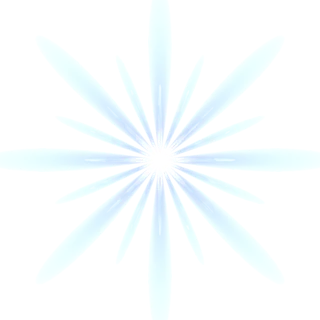
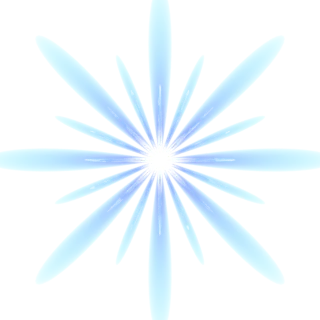
TCG: 推しの攻撃スキンを上げた(動く斬撃・濃い色・倒したときの決め・推しごとの音)

Changed region(s): [[0.0, 0.0, 1.0, 1.0]]

diff --git a/preview/tcg_play.html b/preview/tcg_play.html
@@ -5295,7 +5295,7 @@ function ofxTick(){const now=ofxNow();OFX.raf=0;const cx=ofxCanvas(),d=OFX.dpr;c
     if(p.gl){cx.globalCompositeOperation='lighter';cx.fillStyle='#fff';cx.shadowColor=p.col;cx.shadowBlur=10;const s=q.s;cx.beginPath();cx.moveTo(q.x,q.y-s);cx.quadraticCurveTo(q.x,q.y,q.x+s,q.y);cx.quadraticCurveTo(q.x,q.y,q.x,q.y+s);cx.quadraticCurveTo(q.x,q.y,q.x-s,q.y);cx.quadraticCurveTo(q.x,q.y,q.x,q.y-s);cx.fill();cx.shadowBlur=0;cx.globalCompositeOperation='source-over';return true}
     if(p.tint){cx.globalCompositeOperation='lighter';cx.fillStyle=p.col;cx.fillRect(0,0,innerWidth,innerHeight);cx.globalCompositeOperation='source-over';return true}
     if(p.pil){cx.globalCompositeOperation='lighter';const g2=cx.createLinearGradient(q.x-q.w/2,0,q.x+q.w/2,0);g2.addColorStop(0,'rgba(0,0,0,0)');g2.addColorStop(.35,p.col);g2.addColorStop(.5,'#ffffff');g2.addColorStop(.65,p.col);g2.addColorStop(1,'rgba(0,0,0,0)');cx.fillStyle=g2;const g3=cx.createLinearGradient(0,q.y-q.h,0,q.y);cx.fillRect(q.x-q.w/2,q.y-q.h,q.w,q.h);cx.globalCompositeOperation='source-over';return true}
-    if(p.pic){const im=p.pic;if(!im.complete||!im.naturalWidth)return true;cx.globalCompositeOperation='lighter';cx.save();cx.translate(q.x,q.y);cx.rotate(q.r||0);cx.scale(q.sx||1,q.sy||1);cx.drawImage(im,-q.w/2,-q.h/2,q.w,q.h);cx.restore();cx.globalCompositeOperation='source-over';return true}
+    if(p.pic){const im=p.pic;if(!im.complete||!im.naturalWidth)return true;cx.globalCompositeOperation='lighter';cx.save();cx.translate(q.x,q.y);cx.rotate(q.r||0);cx.scale(q.sx||1,q.sy||1);if(p.fr){const fw=im.naturalWidth/p.fr,fi=Math.min(p.fr-1,Math.floor(u*p.fr));cx.drawImage(im,fi*fw,0,fw,im.naturalHeight,-q.w/2,-q.h/2,q.w,q.h)}else cx.drawImage(im,-q.w/2,-q.h/2,q.w,q.h);cx.restore();cx.globalCompositeOperation='source-over';return true}
     if(p.streak&&u>.04){const q0=p.f(Math.max(0,u-.07));cx.globalCompositeOperation='lighter';cx.strokeStyle=p.glow||'#fff';cx.lineCap='round';cx.lineWidth=Math.max(2,q.s*.22);cx.beginPath();cx.moveTo(q0.x,q0.y);cx.lineTo(q.x,q.y);cx.stroke();cx.globalCompositeOperation='source-over';cx.globalAlpha=Math.min(1,q.a)*(p.dim||1)}
     const im=ofxImg(p.k);if(!im.complete||!im.naturalWidth)return true;const fi=Math.floor(((u*p.spin+p.f0)%1+1)%1*12),s=q.s;
     cx.globalAlpha=Math.min(1,q.a)*(p.dim||1);if(p.glow){cx.shadowColor=p.glow;cx.shadowBlur=Math.max(6,s*.32)}
@@ -5316,14 +5316,13 @@ function ofxHit(tEl,K){const T=ofxRect(tEl);if(!T)return;const col=K.c[0]||'#ff8
     f:u=>{const e=ofxE.o5(u);return{x:T.x+Math.cos(a)*d*e,y:T.y+Math.sin(a)*d*.75*e+u*u*40,s:sz*(1.15-.4*u),a:(1-Math.pow(u,2)),r:a+u*3}}})}
   ofxGl(T,col,6);ofxAdd({ring:1,col,dur:420,f:u=>({x:T.x,y:T.y,s:12+ofxE.o5(u)*T.w*.5,a:(1-u),lw:3*(1-u)+1,fl:.8})})}
 /* 倒す: a big burst where the beaten one stood, in the winner's 推し */
-function ofxKo(el,K){const T=ofxRect(el);if(!T)return;const col=K.c[0]||'#ff8fd0',n=OFX_RM?8:28,bu=ovxImg('burst_'+(OVX_T[K.n]||'hood'));
+function ofxKo(el,K){const T=ofxRect(el);if(!T)return;ofxSnd(K,'ko');const col=K.c[0]||'#ff8fd0',n=OFX_RM?8:28,bu=ovxImg('burst_'+(OVX_T[K.n]||'hood'));
   ofxAdd({tint:1,col:col+'44',dur:260,f:u=>({x:0,y:0,a:1-u})});
   ofxAdd({pil:1,col,dur:760,f:u=>({x:T.x,y:T.y+T.h*.55,w:T.w*(.7+.9*ofxE.o3(Math.min(1,u*2)))*(1-u*.5),h:T.h*(1.5+4*ofxE.o3(u)),a:Math.sin(Math.min(1,u*1.3)*Math.PI)*.9})});
   ofxAdd({pic:bu,dur:620,f:u=>{const e=ofxE.o5(u),z=3*Math.max(70,T.w);return{x:T.x,y:T.y,r:-u*.6,w:z*(.2+.9*e),h:z*(.2+.9*e),a:(1-u)*1.3}}});
   ofxAdd({pic:bu,dur:700,dl:140,f:u=>{const e=ofxE.o5(u),z=2.2*Math.max(70,T.w);return{x:T.x,y:T.y,r:u*.8,w:z*(.2+.9*e),h:z*(.2+.9*e),a:(1-u)*1.1}}});
   ofxAdd({ring:1,col,dur:620,f:u=>({x:T.x,y:T.y+T.h*.25,s:14+ofxE.o5(u)*T.w*.62,a:(1-u),lw:4*(1-u)+1,fl:.6})});
-  for(let i=0;i<n;i++){const a=-Math.PI/2+ofxRnd(-1.2,1.2),v=ofxRnd(1.6,2.8)*Math.max(50,T.w),sz=ofxRnd(34,54),g0=v*2.4;ofxAdd({k:ofxPick(K,i),dur:1200,dl:i*6,spin:ofxRnd(1.2,2.4),f0:Math.random(),glow:col,streak:1,
-    f:u=>{const t=u*1.15,x=T.x+Math.cos(a)*v*t*.55,y=T.y+Math.sin(a)*v*t+.5*g0*t*t;return{x,y,s:sz*(u<.1?u*10:1),a:1-Math.pow(u,2.4),r:t*3*(i%2?1:-1)}}})}
+  ofxFin(OVX_T[K.n]||'hood',T,K,col);
   for(let i=0;i<(OFX_RM?4:10);i++){const x=T.x+ofxRnd(-T.w*.6,T.w*.6),y=T.y+ofxRnd(-T.h*.7,T.h*.3),s=ofxRnd(5,10);ofxAdd({gl:1,col,dur:520,dl:ofxRnd(60,520),f:u=>({x,y,s:s*Math.sin(u*Math.PI),a:1})})}}
 /* 倒される: her pieces drift down softly onto the one who fell */
 function ofxDown(el,K){const T=ofxRect(el);if(!T)return;const n=OFX_RM?4:9;
@@ -5333,17 +5332,18 @@ function ofxDown(el,K){const T=ofxRect(el);if(!T)return;const n=OFX_RM?4:9;
 /* (10/29) 推しの攻撃スキン: 攻撃するキャラの持ち主に応援演出があると、斬撃・当たった光・飛び散るものが、その推しの色と形になる(Blender の ovx_slash_* / ovx_burst_* と ofx_*) */
 const OVX_T={'夜宴の小悪魔':'imp','堕ちた天使':'angel','オーバーサイズ':'hood','ふくれっつら':'chibi','ためいき':'sigh','ひだまりニット':'knit','はなかんむり':'crown'};
 const OVX_IMG={};function ovxImg(n){let im=OVX_IMG[n];if(!im){im=new Image();im.src='tcgk/ovx_'+n+'.webp';OVX_IMG[n]=im}return im}
-function ofxTheme(m){try{if(!m||FAST||WATCH)return null;const K=OSK.K[m.owner];if(!K)return null;const t=OVX_T[K.n]||'hood';ovxImg('slash_'+t);ovxImg('burst_'+t);ofxKinds(K).forEach(ofxImg);return Object.assign({t},K)}catch(e){return null}}
+function ofxTheme(m){try{if(!m||FAST||WATCH)return null;const K=OSK.K[m.owner];if(!K)return null;const t=OVX_T[K.n]||'hood';ovxImg('sweep_'+t);ovxImg('burst_'+t);ofxKinds(K).forEach(ofxImg);return Object.assign({t},K)}catch(e){return null}}
 /* the charge: her pieces circle up around the attacker */
-function ofxCharge(K,st){const A=ofxRect(st);if(!A)return;const col=K.c[0]||'#ff8fd0',n=OFX_RM?6:14,R=Math.max(30,A.w*.75);
+function ofxSnd(K,ph){try{TSFX.play('o_'+(K.t||OVX_T[K.n]||'hood')+'_'+ph)}catch(e){}}
+function ofxCharge(K,st){const A=ofxRect(st);if(!A)return;ofxSnd(K,'charge');const col=K.c[0]||'#ff8fd0',n=OFX_RM?6:14,R=Math.max(30,A.w*.75);
   ofxAdd({pil:1,col,dur:420,f:u=>({x:A.x,y:A.y+A.h*.5,w:A.w*(.5+.7*Math.sin(Math.min(1,u*1.4)*Math.PI/2))*(1-u*.4),h:A.h*(1.2+2.2*ofxE.o3(u)),a:Math.sin(u*Math.PI)*.75})});
   for(let i=0;i<n;i++){const a0=i/n*Math.PI*2,sz=ofxRnd(32,46),r0=R*ofxRnd(1.5,2.1);ofxAdd({k:ofxPick(K,i),dur:520,dl:i*10,spin:ofxRnd(1,2),f0:Math.random(),glow:col,streak:1,
     f:u=>{const a=a0+u*Math.PI*1.8,e=ofxE.io(u),r=r0*(1-e)+R*.35*e;return{x:A.x+Math.cos(a)*r,y:A.y+A.h*.1-ofxE.o3(u)*A.h*.6+Math.sin(a)*r*.4,s:sz*(1-.35*u),a:Math.min(1,u*7)*(1-Math.pow(u,3)),r:a}}})}
   ofxGl(A,col,6)}
 /* the hit: her two slashes cross, her flash, her pieces burst out, a ring in her colour */
-function ofxStrike(K,ax,ay,tx,ty,rt,heavy){const col=K.c[0]||'#ff8fd0',c2=K.c[1]||'#ffffff',RW=rt.width||70,W=Math.max(200,RW*3.4),sl=ovxImg('slash_'+K.t),bu=ovxImg('burst_'+K.t),dir=tx>=ax?1:-1;
+function ofxStrike(K,ax,ay,tx,ty,rt,heavy){ofxSnd(K,'hit');const col=K.c[0]||'#ff8fd0',c2=K.c[1]||'#ffffff',RW=rt.width||70,W=Math.max(200,RW*3.4),sl=ovxImg('sweep_'+K.t),bu=ovxImg('burst_'+K.t),dir=tx>=ax?1:-1;
   ofxAdd({tint:1,col:col+'55',dur:200,f:u=>({x:0,y:0,a:1-u})});
-  [[-32,0,1],[26,50,1],[dir*-4,105,1.25]].forEach(([r,dl,k])=>ofxAdd({pic:sl,dur:400,dl,f:u=>{const e=ofxE.o5(Math.min(1,u*1.9));return{x:tx,y:ty,r:(r+dir*(1-e)*-46)*Math.PI/180,w:W*k,h:W*k/2,sx:.3+.95*e,sy:1.05-.4*u,a:u<.5?1:1-(u-.5)/.5}}}));
+  [[-32,0,1],[26,50,1],[dir*-4,105,1.25]].forEach(([r,dl,k],i)=>ofxAdd({pic:sl,fr:10,dur:420,dl,f:u=>{const e=ofxE.o5(Math.min(1,u*1.6));return{x:tx,y:ty,r:(r+dir*(1-e)*-24)*Math.PI/180,w:W*k,h:W*k/2,sx:(i%2?-1:1)*dir*(.85+.25*e),sy:1,a:1}}}));
   ofxAdd({pic:bu,dur:520,dl:20,f:u=>{const e=ofxE.o5(u),z=(heavy?2.6:2.1)*Math.max(70,RW);return{x:tx,y:ty,r:u*.6,w:z*(.2+.95*e),h:z*(.2+.95*e),a:(1-u)*1.25}}});
   ofxAdd({pic:bu,dur:300,dl:0,f:u=>{const z=1.1*Math.max(70,RW);return{x:tx,y:ty,r:-u,w:z*(.4+.6*u),h:z*(.4+.6*u),a:(1-u)*1.4}}});
   [[col,0,.85],['#ffffff',60,.6],[c2,120,1.05]].forEach(([c,dl,k])=>ofxAdd({ring:1,col:c,dur:480,dl,f:u=>({x:tx,y:ty,s:10+ofxE.o5(u)*RW*k,a:(1-u),lw:5*(1-u)+1,fl:.75})}));
@@ -5351,6 +5351,28 @@ function ofxStrike(K,ax,ay,tx,ty,rt,heavy){const col=K.c[0]||'#ff8fd0',c2=K.c[1]
   for(let i=0;i<n;i++){const a=i/n*Math.PI*2+ofxRnd(-.25,.25),d=ofxRnd(.7,1.35)*Math.max(56,T.w),sz=ofxRnd(30,48);ofxAdd({k:ofxPick(K,i),dur:820,dl:15,spin:ofxRnd(1,2.2),f0:Math.random(),glow:col,streak:1,
     f:u=>{const e=ofxE.o5(u);return{x:T.x+Math.cos(a)*d*e,y:T.y+Math.sin(a)*d*.8*e+u*u*44,s:sz*(1.15-.45*u),a:1-Math.pow(u,2),r:a+u*3}}})}
   ofxGl(T,col,heavy?12:9)}
+
+/* (10/29) 倒したときの決め: 推しごとに違う動き */
+function ofxFin(t,T,K,col){const W=Math.max(56,T.w),Hh=Math.max(70,T.h),R=OFX_RM?.5:1,P=(o)=>ofxAdd(Object.assign({spin:1,f0:Math.random(),glow:col},o));
+  if(t==='imp'){/* コウモリの渦: 回りながら広がって上へ抜けていく */const n=Math.round(22*R);for(let i=0;i<n;i++){const a0=i/n*Math.PI*2,sz=ofxRnd(34,50),sp=ofxRnd(3.2,4.4),dl=i*14;
+      P({k:'bat',dur:1250,dl,spin:ofxRnd(5,7),streak:1,f:u=>{const e=ofxE.o3(u),a=a0+u*sp,r=W*(.25+1.35*e);return{x:T.x+Math.cos(a)*r,y:T.y-u*Hh*1.1+Math.sin(a)*r*.45,s:sz*(.6+.6*Math.min(1,u*4)),a:Math.min(1,u*6)*(1-Math.pow(u,3)),r:0}}})}
+    for(let i=0;i<Math.round(8*R);i++){const a=ofxRnd(0,6.3),d=ofxRnd(.4,1.1)*W;P({k:'star',dur:900,dl:200+i*40,spin:1.5,f:u=>({x:T.x+Math.cos(a)*d*ofxE.o5(u),y:T.y-Hh*.3+Math.sin(a)*d*.6*ofxE.o5(u),s:30*(1-u*.4),a:1-u*u,r:u*4})})}}
+  else if(t==='angel'){/* 赤い光の輪が頭の上に出て、羽根が上から舞い落ちる */
+    [[col,0,1],['#ffffff',80,.82],[col,160,.64]].forEach(([c,dl,k])=>ofxAdd({ring:1,col:c,dur:1300,dl,fl:.32,f:u=>({x:T.x,y:T.y-Hh*.62-Math.sin(Math.min(1,u*2)*Math.PI/2)*8,s:W*.62*k*(.6+.4*ofxE.o5(Math.min(1,u*3))),a:Math.min(1,u*6)*(1-Math.pow(u,2)),lw:4})}));
+    const n=Math.round(18*R);for(let i=0;i<n;i++){const x0=T.x+ofxRnd(-1.3,1.3)*W,sw=ofxRnd(14,30),ph=ofxRnd(0,6),sz=ofxRnd(34,48);P({k:'feather',dur:1500,dl:120+i*30,spin:ofxRnd(.5,1),f:u=>({x:x0+Math.sin(ph+u*5)*sw,y:T.y-Hh*1.5+u*Hh*1.9,s:sz,a:Math.min(1,u*5)*(1-Math.pow(u,2)),r:Math.sin(ph+u*4)*.7})})}}
+  else if(t==='hood'){/* 泡の柱: ふくらみながら上がって、ぱちんと割れる */const n=Math.round(20*R);for(let i=0;i<n;i++){const x0=T.x+ofxRnd(-.6,.6)*W,ph=ofxRnd(0,6),s0=ofxRnd(20,30),s1=s0*ofxRnd(1.6,2.2),dl=i*35,du=ofxRnd(800,1100),top=ofxRnd(1.1,1.8);
+      const q=u=>({x:x0+Math.sin(ph+u*7)*10,y:T.y+Hh*.4-ofxE.o3(u)*Hh*top,s:s0+(s1-s0)*u,a:Math.min(1,u*6)*(u>.92?(1-u)/.08:1),r:0});P({k:'bubble',dur:du,dl,spin:.4,f:q});
+      const e=q(1);ofxAdd({gl:1,col,dur:260,dl:dl+du-30,f:u=>({x:e.x,y:e.y,s:16*Math.sin(u*Math.PI),a:1})});ofxAdd({ring:1,col:'#ffffff',dur:240,dl:dl+du-30,fl:1,f:u=>({x:e.x,y:e.y,s:s1*.4*(1+u),a:1-u,lw:2})})}
+    for(let i=0;i<Math.round(6*R);i++){const a=ofxRnd(0,6.3),d=ofxRnd(.3,1)*W;P({k:'star',dur:800,dl:100+i*60,spin:1.5,f:u=>({x:T.x+Math.cos(a)*d*ofxE.o5(u),y:T.y+Math.sin(a)*d*.6*ofxE.o5(u),s:28,a:1-u*u,r:u*4})})}}
+  else if(t==='chibi'){/* ハートの輪が広がって回る、まん中で大きなハートが2回どきんと */const n=Math.round(14*R);for(let i=0;i<n;i++){const a0=i/n*Math.PI*2;P({k:'heart',dur:1150,dl:60,spin:.6,f:u=>{const e=ofxE.o5(u),a=a0+u*1.6,r=W*(.2+1.15*e);return{x:T.x+Math.cos(a)*r,y:T.y+Math.sin(a)*r*.62,s:36*(1-u*.3),a:Math.min(1,u*8)*(1-Math.pow(u,2.5)),r:0}}})}
+    [0,280].forEach(dl=>P({k:'heart',dur:520,dl,spin:0,f0:0,f:u=>{const k=Math.sin(Math.min(1,u*1.6)*Math.PI/2);return{x:T.x,y:T.y-Hh*.1,s:W*(0.5+0.9*k),a:(1-u)*1.1,r:0}}}));
+    for(let i=0;i<Math.round(6*R);i++){const a=ofxRnd(0,6.3),d=ofxRnd(.5,1.1)*W;P({k:'star',dur:800,dl:150+i*50,spin:1.5,f:u=>({x:T.x+Math.cos(a)*d*ofxE.o5(u),y:T.y+Math.sin(a)*d*.6*ofxE.o5(u),s:26,a:1-u*u,r:u*4})})}}
+  else if(t==='sigh'||t==='crown'){/* 花びら(と葉)の渦: 足元から巻き上がる。はなかんむりは最初に花の輪になってから */const n=Math.round(28*R);for(let i=0;i<n;i++){const a0=i/n*Math.PI*2,k=t==='crown'&&i%3===2?'leaf':'petal',sz=ofxRnd(30,44),ring=t==='crown';
+      P({k,dur:1400,dl:i*12,spin:ofxRnd(.8,1.6),f:u=>{let a,r,y;if(ring&&u<.35){const v=u/.35;a=a0+v*1.2;r=W*.85*ofxE.o5(v);y=T.y+Math.sin(a)*r*.5}else{const v=ring?(u-.35)/.65:u;a=a0+(ring?1.2:0)+v*5.5;r=W*((ring?.85:.3)+.6*v);y=T.y+(ring?0:Hh*.45)-ofxE.io(v)*Hh*1.5+Math.sin(a)*r*.4}return{x:T.x+Math.cos(a)*r,y,s:sz,a:Math.min(1,u*8)*(1-Math.pow(u,3)),r:a}}})}}
+  else if(t==='knit'){/* 雪の星: 6方向に結晶が走って、きらきらしながら降る */for(let j=0;j<6;j++)for(let k=0;k<3;k++){if(R<1&&k)continue;const a=j/6*Math.PI*2-Math.PI/2,d=W*(.5+.45*k),dl=k*70;
+      P({k:k===1?'star':'snow',dur:1300,dl,spin:.8,f:u=>{const e=ofxE.o5(Math.min(1,u*2));return{x:T.x+Math.cos(a)*d*e,y:T.y+Math.sin(a)*d*.7*e+Math.max(0,u-.5)*Hh*.8,s:(k===1?30:40)*(1-u*.3),a:Math.min(1,u*8)*(1-Math.pow(u,2)),r:u*2}}})}
+    for(let i=0;i<Math.round(14*R);i++){const x=T.x+ofxRnd(-1.2,1.2)*W,y=T.y+ofxRnd(-1,.6)*Hh,s=ofxRnd(6,12);ofxAdd({gl:1,col:'#dff0ff',dur:420,dl:ofxRnd(200,1100),f:u=>({x,y,s:s*Math.sin(u*Math.PI),a:1})})}}
+}
 /* when: the attack (strike) and the fall (the 'die' event) */
 function ofxOn(){return !FAST&&!WATCH}
 {const _t=tsfxEv;tsfxEv=function(e){try{if(e&&e.t==='die'&&ofxOn()){const u=uidEl(e.uid);if(u){const Kw=OSK.K[1-e.who],Kl=OSK.K[e.who];if(Kw)ofxKo(u,Kw);if(Kl)setTimeout(()=>{try{ofxDown(u,Kl)}catch(_){}},D(260))}}}catch(_){}return _t.apply(this,arguments)}}
@@ -5401,7 +5423,29 @@ const TSFX=(()=>{let ac=null,master=null,nb=null;const last={};
     turnOpp(){tone(392,392,.12,'triangle',.07);tone(330,330,.22,'triangle',.07,.1)},
     win(){[523,659,784,1046].forEach((f,i)=>tone(f,f,.5,'triangle',.1,i*.11));glit(2093,5,.05,.46)},
     lose(){[392,349,311,262].forEach((f,i)=>tone(f,f*.98,.5,'triangle',.08,i*.16))},
-    draw0(){tone(440,440,.3,'triangle',.07);tone(440,330,.4,'triangle',.06,.2)}};
+    draw0(){tone(440,440,.3,'triangle',.07);tone(440,330,.4,'triangle',.06,.2)},
+    /* (10/29) 推しの攻撃スキンの音: o_<推し>_charge / hit / ko */
+    o_imp_charge(){tone(260,120,.45,'sine',.12);[0,.09,.17].forEach((d,i)=>tone(3400-i*300,2500,.05,'square',.025,d+.1))},
+    o_imp_hit(){tone(700,110,.28,'sawtooth',.07);noise(.18,3000,900,1.5,.1)},
+    o_imp_ko(){[523,622,784,1046].forEach((f,i)=>tone(f,f*.99,.55,'triangle',.06,i*.07));for(let i=0;i<6;i++)noise(.07,900,500,2,.06,.1+i*.08)},
+    o_angel_charge(){noise(.45,400,2600,1.6,.08);tone(330,330,.5,'sine',.06);tone(495,495,.5,'sine',.04,.05)},
+    o_angel_hit(){tone(1318,1318,.4,'sine',.06);tone(1976,1976,.35,'sine',.045,.03);noise(.14,4000,1500,1.4,.08)},
+    o_angel_ko(){[1568,1318,1046,880,784].forEach((f,i)=>tone(f,f,.5,'triangle',.06,i*.07));for(let i=0;i<4;i++)noise(.12,700,350,1.2,.06,.15+i*.14)},
+    o_hood_charge(){[0,.06,.12,.18].forEach((d,i)=>tone(380+i*120,700+i*180,.07,'sine',.08,d))},
+    o_hood_hit(){tone(520,1100,.08,'sine',.12);tone(1650,1650,.05,'sine',.05,.03);noise(.06,3000,2000,2,.05)},
+    o_hood_ko(){for(let i=0;i<9;i++){const f=500+Math.random()*700;tone(f,f*1.9,.07,'sine',.08,.1+i*.09+Math.random()*.03)}},
+    o_chibi_charge(){tone(600,1500,.22,'sine',.08);glit(1760,3,.035,.1)},
+    o_chibi_hit(){tone(300,620,.16,'sine',.12);glit(2093,4,.04,.04)},
+    o_chibi_ko(){tone(82,60,.16,'sine',.35);tone(82,60,.16,'sine',.3,.22);glit(1568,6,.045,.35)},
+    o_sigh_charge(){noise(.5,300,900,.8,.07,0,'lowpass');glit(1760,2,.025,.2)},
+    o_sigh_hit(){glit(2093,4,.045);noise(.2,2000,4000,2,.05)},
+    o_sigh_ko(){noise(.8,300,2400,1,.08);[784,988,1175,1568].forEach((f,i)=>tone(f,f,.45,'sine',.055,.15+i*.08))},
+    o_crown_charge(){noise(.5,300,900,.8,.07,0,'lowpass');tone(523,659,.3,'triangle',.04,.1)},
+    o_crown_hit(){glit(1760,4,.045);tone(659,659,.25,'triangle',.05)},
+    o_crown_ko(){noise(.8,300,2400,1,.07);[659,784,988,1318].forEach((f,i)=>tone(f,f,.45,'triangle',.055,.15+i*.08))},
+    o_knit_charge(){glit(2637,3,.03);noise(.3,6000,8000,3,.03)},
+    o_knit_hit(){tone(3520,3500,.12,'sine',.07);tone(4699,4690,.1,'sine',.04,.02);noise(.1,7000,5000,2,.06)},
+    o_knit_ko(){for(let i=0;i<8;i++){const f=2093*(1+Math.random()*1.2);tone(f,f,.35,'sine',.04,i*.07)}}};
   /* (10/25) the real sounds (tsfx/ts_*.mp3, made with a sound AI and leveled): decoded once the sound is on; the synth stays as a fallback */
   const FILES=['draw','select','place','place_secret','place_kmr','leader','spell','trap_set','trap','negate','attack','hit','clash','direct','destroy','heal','powerup','skill','guts','coin','turn_me','turn_opp','timer','win','lose','stamp'];
   const VOL={select:.55,draw:.6,trap_set:.7,stamp:.8,timer:.8,win:.9,lose:.9};

diff --git a/preview/sw.js b/preview/sw.js
@@ -1,5 +1,5 @@
 /* Bump VERSION on every release: a changed sw.js is what makes phones show the update notice. */
-const VERSION = 'v142-preview-2026-10-29h';
+const VERSION = 'v142-preview-2026-10-29i';
 const CACHE = 'ladder-preview-' + VERSION;
 const SHELL = ['./', 'index.html', 'manifest.webmanifest', 'icon-192.png', 'icon-512.png', 'apple-touch-icon.png', 'tcg_spectator.js', 'motion_lifecycle.js',
   'kmr_hood.jpg', 'kmr_chibi.jpg', 'kmr_hoodie2.jpg', 'kmr_vt1.jpg', 'kmr_vt2.jpg', 'kmr_vt3.jpg',
